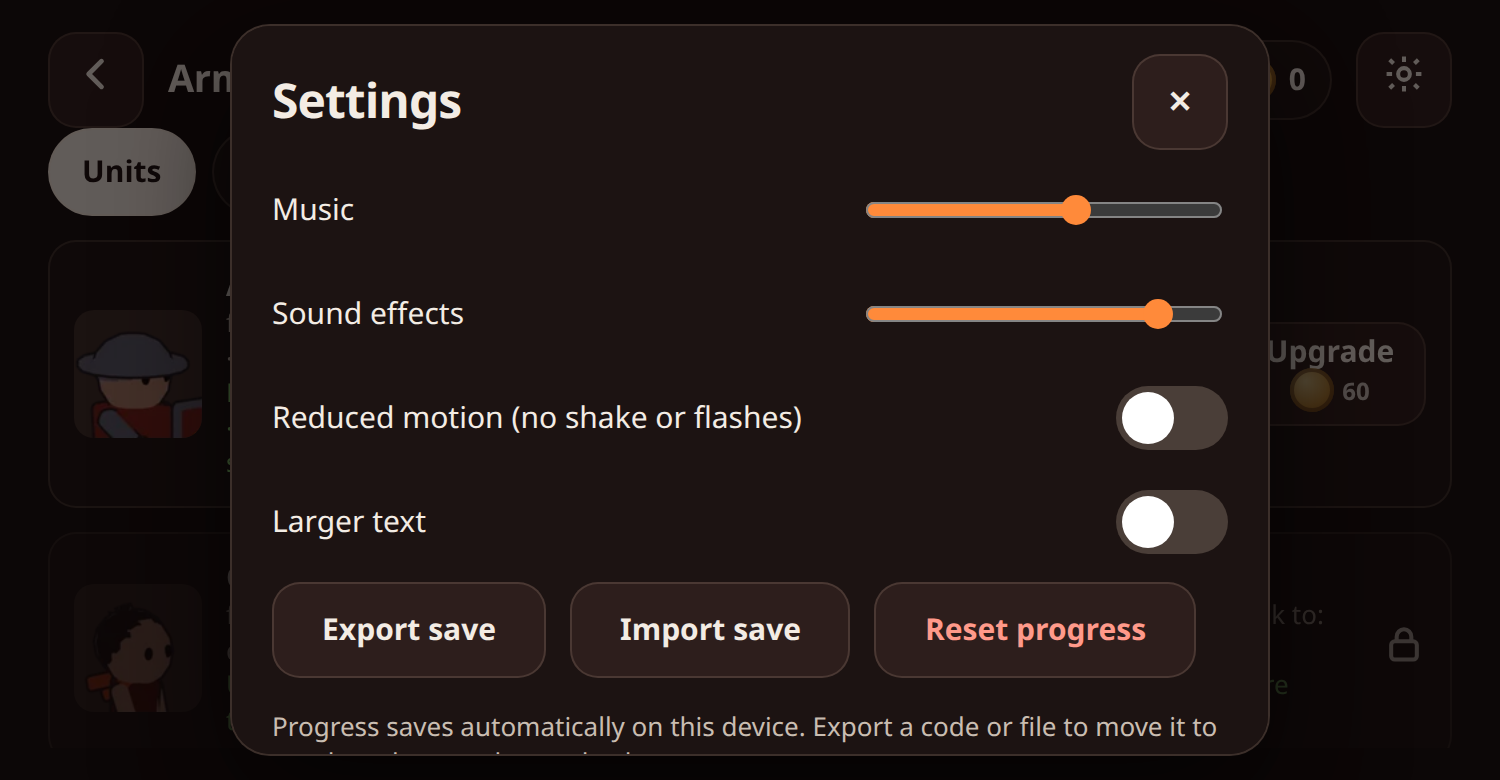
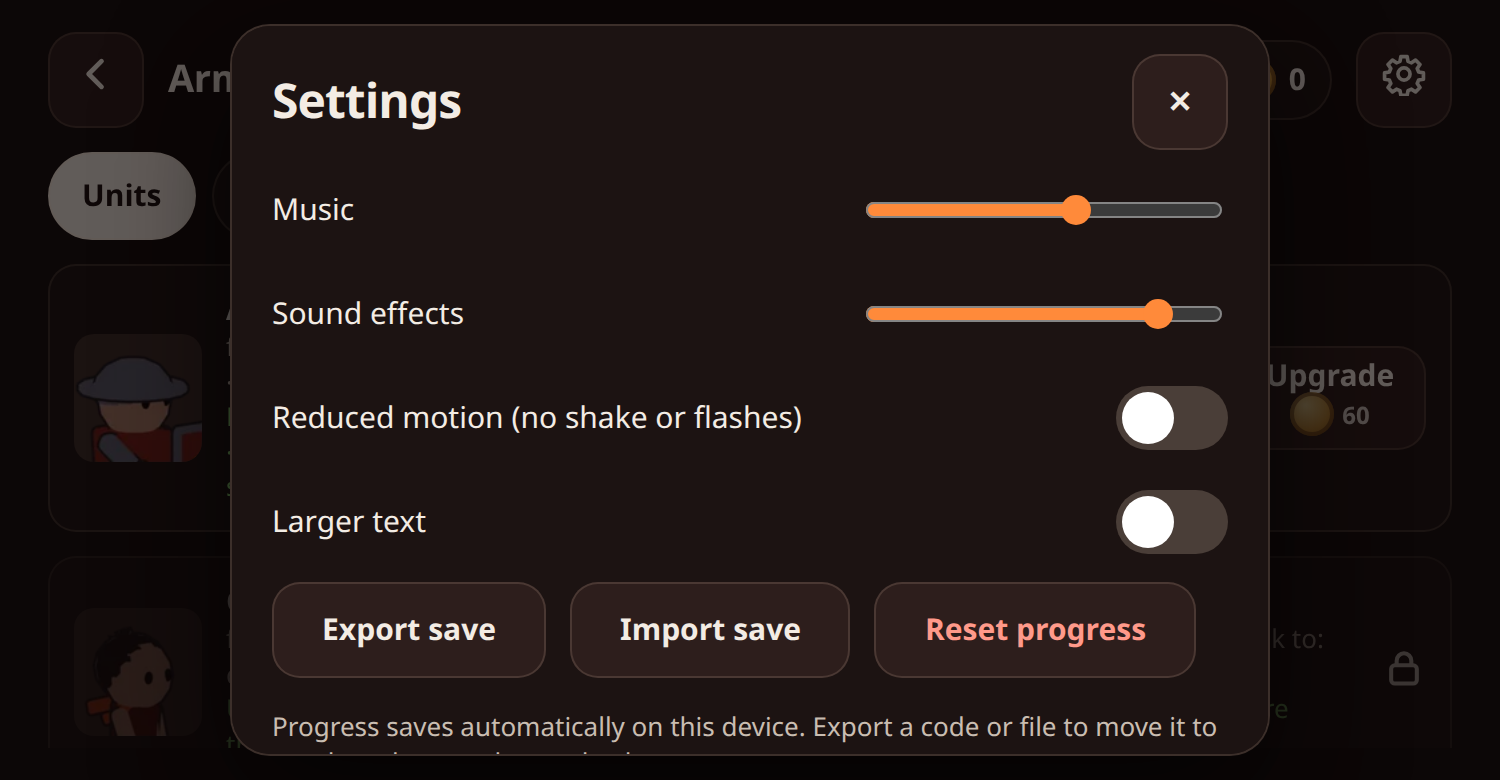
Reviewer 2 fixes: callout queue, shorter boss with winded window, bottom-row powers, atlas manifest, layout polish

diff --git a/src/main.js b/src/main.js
@@ -43,7 +43,7 @@ function h(tag, attrs = {}, ...kids) {
 }
 const I = {
   back: '<svg viewBox="0 0 24 24" fill="none" stroke="currentColor" stroke-width="2.6" stroke-linecap="round" stroke-linejoin="round"><path d="M15 5l-7 7 7 7"/></svg>',
-  gear: '<svg viewBox="0 0 24 24" fill="none" stroke="currentColor" stroke-width="2.2"><circle cx="12" cy="12" r="3.2"/><path d="M12 2.5v3M12 18.5v3M4.2 4.2l2.1 2.1M17.7 17.7l2.1 2.1M2.5 12h3M18.5 12h3M4.2 19.8l2.1-2.1M17.7 6.3l2.1-2.1"/></svg>',
+  gear: '<svg viewBox="0 0 24 24" fill="none" stroke="currentColor" stroke-width="2" stroke-linejoin="round"><path d="M10.3 2.5h3.4l.5 2.6 1.9.8 2.2-1.5 2.4 2.4-1.5 2.2.8 1.9 2.6.5v3.4l-2.6.5-.8 1.9 1.5 2.2-2.4 2.4-2.2-1.5-1.9.8-.5 2.6h-3.4l-.5-2.6-1.9-.8-2.2 1.5-2.4-2.4 1.5-2.2-.8-1.9-2.6-.5v-3.4l2.6-.5.8-1.9-1.5-2.2 2.4-2.4 2.2 1.5 1.9-.8z"/><circle cx="12" cy="12" r="3.3"/></svg>',
   pause: '<svg viewBox="0 0 24 24" fill="currentColor"><rect x="6" y="4.5" width="4" height="15" rx="1.2"/><rect x="14" y="4.5" width="4" height="15" rx="1.2"/></svg>',
   lock: '<svg viewBox="0 0 24 24" fill="none" stroke="currentColor" stroke-width="2.2"><rect x="5" y="10.5" width="14" height="10" rx="2"/><path d="M8 10.5V8a4 4 0 018 0v2.5"/></svg>',
   hammer: '<svg viewBox="0 0 24 24" fill="none" stroke="currentColor" stroke-width="2.2" stroke-linecap="round"><path d="M14 4l6 6-3 3-6-6zM11 7L3.5 14.5a2 2 0 000 2.8l3.2 3.2a2 2 0 002.8 0L17 13"/></svg>',
@@ -144,7 +144,7 @@ async function worldMap() {
     const open = !!r.playable;
     map.append(h("button", { class: "pin" + (open ? "" : " locked"), style: `left:${p.x * 100}%;top:${p.y * 100}%`, "aria-label": r.name + (open ? "" : " (locked)"),
       onclick: open ? tap(() => regionScreen(r)) : tap(() => toast(`${r.name}: ${r.blurb.split(".")[0]}. Coming in a later update.`, 3200), "ui_locked") },
-      h("span", { class: "dot" }), h("span", { class: "lbl" }, open ? `${r.name} · ${totalStars()}/18` : h("span", { style: "display:inline-flex;align-items:center;gap:4px" }, h("span", { class: "icon", style: "width:12px;height:12px;display:inline-block", html: I.lock.replace('<svg', '<svg width="12" height="12"') }), r.name)),
+      h("span", { class: "dot" }), h("span", { class: "lbl" }, open ? `${r.name} · ${totalStars()}/18` : h("span", { style: "display:inline-flex;align-items:center;gap:4px" }, h("span", { class: "icon", style: "width:12px;height:12px;display:inline-block;margin-right:3px", html: I.lock.replace('<svg', '<svg width="12" height="12"') }), r.name)),
       open && cleared("r1boss") ? h("span", { class: "cleared" }, "Cleared") : null));
   });
   const ann = D.seen.regionCleared === "new" ? h("div", { class: "announce", role: "status" }, h("b", {}, "Cinderfold Vale is free"),
@@ -200,7 +200,7 @@ function stageSheet(s, region) {
     h("div", { class: "starrow" }, ...game.stars.desc.map((d, i) => h("div", {}, h("span", { class: "star" + (st[i] ? " on" : "") }), i === 2 ? `Win in under ${Math.floor(s.par / 60)}:${String(s.par % 60).padStart(2, "0")}` : d))),
     ),
     h("button", { class: "btn primary big", onclick: tap(() => startBattle(s)), "aria-label": `Fight. ${first ? "First clear" : "Replay"} pays ${reward} marks` }, "Fight",
-      h("span", { style: "display:inline-flex;align-items:center;gap:4px;font-size:15px;opacity:.85;margin-left:8px" }, coin(), reward + "")));
+      h("span", { style: "display:inline-flex;align-items:center;gap:4px;font-size:14px;opacity:.85;margin-left:10px" }, "+", coin(), reward + "")));
   current.append(sheet);
 }
 
@@ -371,16 +371,23 @@ class BattleView {
       return el;
     });
     this.heroEl = B.hero ? h("button", { class: "abil herobtn", "aria-label": "Call the Marshal", onpointerdown: (e) => { e.preventDefault(); this.callHero(); } }, portrait("marshal", 60), h("span", { class: "cdtxt" })) : null;
-    const side = h("div", { class: "side" }, ...this.abilEls, this.heroEl);
+    const side = h("div", { class: "side row-side" }, this.heroEl, ...this.abilEls);
     const bottom = h("div", { class: "hud-bottom" }, h("div", { class: "left" }, this.energy, this.weapon), cards, side);
     this.bossBar = null;
     return h("div", { class: "screen hud" }, top, bottom);
   }
   bossWarn(kind) {
     const t = { sweep: "Censer raised! Fall back!", summon: "She calls the Choir!", spit: "Ember Spit! Clear the red ring!", winded: "She's winded! Strike now!" }[kind];
-    if (!t) return; const c = h("div", { class: "bosswarn" }, t); this.el.append(c); setTimeout(() => c.remove(), 1500);
+    if (t) this.callout(t, true);
   }
-  callout(text) { const c = h("div", { class: "callout" }, text); this.el.append(c); setTimeout(() => c.remove(), 1900); }
+  /** One callout at a time: urgent ones (boss warnings) replace the current one, others wait their turn. */
+  callout(text, urgent = false) {
+    this._cq = this._cq || [];
+    if (urgent) { this._cq.length = 0; if (this._co) { this._co.remove(); this._co = null; clearTimeout(this._coT); } }
+    else if (this._co) { if (this._cq.length < 2) this._cq.push(text); return; }
+    const c = h("div", { class: urgent ? "callout warn" : "callout" }, text); this.el.append(c); this._co = c;
+    this._coT = setTimeout(() => { c.remove(); this._co = null; const n = this._cq.shift(); if (n) this.callout(n); }, urgent ? 1500 : 1900);
+  }
   onBoss(e) {
     this.bossBar = h("div", { class: "bossbar" }, h("div", { class: "name" }, enemyById[e.id].name), h("div", { class: "bar" }, h("i")));
     this.el.append(this.bossBar); this.callout("The Matron rises"); R.camTarget = Math.max(0, e.x - R.W * 0.6);
@@ -436,7 +443,8 @@ class BattleView {
     const speed = Math.max(g.minSpeed, Math.min(g.maxSpeed, g.minSpeed + pull * k));
     R.aim = { vx: Math.cos(up) * speed, vy: -Math.sin(up) * speed, pull };
     // keep the landing point in view while aiming
-    if (R.aim.landX) R.camTarget = Math.max(0, Math.min(this.B.F.width - R.W, R.aim.landX - R.W * 0.55));
+    // keep the ballista in view; only slide right when the landing point would leave the screen
+    if (R.aim.landX && (R.aim.landX > R.camX + R.W * 0.9 || R.aim.landX < R.camX + 60)) R.camTarget = Math.max(0, Math.min(this.B.F.width - R.W, R.aim.landX - R.W * 0.75));
   }
   bindCanvas() {
     let pan = null;
@@ -536,7 +544,7 @@ class BattleView {
     const r = this.weapon.querySelector(".ring"); const rf = B.ballista.reload > 0 ? 1 - B.ballista.reload / B.ballista.maxReload : 1;
     r.style.background = rf < 1 ? `conic-gradient(rgba(255,200,120,.9) ${rf * 360}deg, transparent 0)` : "none";
     r.style.mask = r.style.webkitMask = "radial-gradient(circle, transparent 62%, #000 64%)";
-    const t = Math.floor(B.t); if (t !== this._t) { this._t = t; this.timer.textContent = `${Math.floor(t / 60)}:${String(t % 60).padStart(2, "0")}`; }
+    const t = Math.floor(B.t - B.heldT); if (t !== this._t) { this._t = t; this.timer.textContent = `${Math.floor(t / 60)}:${String(t % 60).padStart(2, "0")}`; }
     if (this.bossBar && B.boss) this.bossBar.querySelector(".bar > i").style.transform = `scaleX(${Math.max(0, B.boss.hp / B.boss.maxHp)})`;
   }
   frame(now) {
@@ -611,7 +619,7 @@ class BattleView {
         this.B.boss && this.B.boss.alive && this.B.boss.hp / this.B.boss.maxHp < 0.3 ? h("b", { style: "display:block;color:var(--accent-2);margin-bottom:4px" }, `The Matron was down to ${Math.round(this.B.boss.hp / this.B.boss.maxHp * 100)}%. So close.`) : null,
         tip),
       win ? h("div", { class: "starrow", style: "align-self:center" }, ...game.stars.desc.map((d, i) => h("div", {}, h("span", { class: "star" + (got[i] ? " on" : "") }), i === 2 ? `Win under ${fmt(s.par)} — you took ${fmt(this.B.endT - this.B.heldT)}` : d))) : null,
-      h("div", { class: "earn" }, coin(), h("span", {}, "+"), earnN, h("span", {}, "marks")),
+      h("div", { class: "earn" }, coin(), h("span", {}, "+", earnN, " marks")),
       unlocks.length ? h("div", { style: "text-align:center;font-weight:800;color:var(--accent-2)" }, "Unlocked: " + unlocks.join(", ")) : null,
       h("div", { class: "btnrow" },
         win && next ? h("button", { class: "btn primary big", onclick: tap(() => startBattle(next)) }, "Next stage") : null,

diff --git a/src/ui/style.css b/src/ui/style.css
@@ -100,7 +100,7 @@ button:focus-visible, [tabindex]:focus-visible { outline: 3px solid var(--accent
 .star.on { background: var(--gold); }
 
 /* armoury */
-.tabs { display: flex; gap: var(--s2); }
+.tabs { display: flex; gap: var(--s2); margin-top: var(--s3); }
 .tab { min-height: 44px; padding: 0 var(--s4); border-radius: 999px; background: var(--panel); border: 1px solid var(--line); font-weight: 700; }
 .tab.on { background: var(--ink); color: #1a1010; }
 .list { flex: 1; overflow-y: auto; margin-top: var(--s3); display: grid; grid-template-columns: repeat(auto-fill, minmax(330px, 1fr)); gap: var(--s3); align-content: start; padding-bottom: var(--s4); -webkit-overflow-scrolling: touch; touch-action: pan-y; }
@@ -159,22 +159,24 @@ button:focus-visible, [tabindex]:focus-visible { outline: 3px solid var(--accent
 .ucard .ph { position: absolute; top: 8px; left: 50%; transform: translateX(-50%); width: 46px; height: 52px; border-radius: 10px 10px 4px 4px; }
 .hud-bottom .left { display: flex; flex-direction: column; align-items: flex-start; gap: 6px; pointer-events: none; }
 .hud-bottom .left > .weapon { pointer-events: auto; }
-.energy { width: 128px; pointer-events: none !important; }
+.energy { width: 128px; pointer-events: none !important; padding: 4px 8px 6px; border-radius: 12px; background: rgba(15,9,8,.55); }
 .energy .val { font-weight: 900; font-size: var(--fs-l); text-shadow: 0 2px 3px #000; font-variant-numeric: tabular-nums; display: flex; align-items: center; gap: 6px; }
 .energy .val .fl { width: 14px; height: 18px; background: var(--accent); clip-path: polygon(50% 0, 90% 55%, 75% 100%, 25% 100%, 10% 55%); }
 .energy .bar > i { background: linear-gradient(90deg, #ff7a2a, #ffcf6a); transition: none; }
 .energy.full .val { color: var(--accent-2); }
 .side { display: flex; flex-direction: column; gap: 6px; align-items: center; }
+.side.row-side { flex-direction: row; align-items: flex-end; }
 .abil { width: 62px; height: 62px; border-radius: 50%; background: radial-gradient(circle at 40% 35%, #5a2a1a, #1e0e09); border: 2px solid #c06a3a; position: relative; display: grid; place-items: center; box-shadow: 0 4px 12px rgba(0,0,0,.5); overflow: hidden; }
 .abil img, .abil svg { width: 38px; height: 38px; }
 .abil .cdtxt { position: absolute; inset: 0; display: grid; place-items: center; background: rgba(0,0,0,.6); font-weight: 900; }
 .abil.ready { border-color: var(--accent-2); box-shadow: 0 0 0 4px rgba(255,179,71,.25), 0 4px 12px rgba(0,0,0,.5); }
 .abil.armed { border-color: #fff; transform: scale(1.08); }
-.herobtn { width: 70px; height: 70px; border-radius: 16px; }
+.herobtn { width: 66px; height: 66px; border-radius: 50%; }
+.herobtn img, .herobtn .ph { width: 60px; height: 60px; border-radius: 50%; }
 .herobtn.ready { animation: pulse2 1.4s infinite; }
 .herobtn.used { opacity: .35; }
 .banner { position: absolute; top: calc(var(--sat) + 64px); left: 50%; transform: translateX(-50%); padding: 10px 18px; border-radius: 999px; background: rgba(20,12,10,.9); border: 1px solid var(--accent-2); font-weight: 700; display: flex; gap: var(--s3); align-items: center; animation: screenIn .25s var(--ease); max-width: calc(100vw - 48px); }
-.tut { position: absolute; left: 50%; transform: translateX(-50%); top: 34%; max-width: min(460px, 80vw); text-align: center; padding: 12px 18px; border-radius: var(--r-m); background: rgba(20,12,10,.92); border: 1px solid var(--accent-2); font-weight: 700; font-size: var(--fs-l); pointer-events: none; animation: screenIn .3s var(--ease); box-shadow: 0 12px 30px rgba(0,0,0,.5); }
+.tut { position: absolute; left: 50%; transform: translateX(-50%); top: 30%; max-width: min(440px, 60vw); text-align: center; padding: 12px 18px; border-radius: var(--r-m); background: rgba(20,12,10,.92); border: 1px solid var(--accent-2); font-weight: 700; font-size: var(--fs-l); pointer-events: none; animation: screenIn .3s var(--ease); box-shadow: 0 12px 30px rgba(0,0,0,.5); }
 .hl { animation: hl 1s ease-in-out infinite !important; z-index: 5; }
 @keyframes hl { 50% { box-shadow: 0 0 0 8px rgba(255,220,120,.55), 0 0 24px 6px rgba(255,180,80,.6); } }
 .callout { position: absolute; font-weight: 900; font-size: 34px; letter-spacing: .04em; text-transform: uppercase; left: 50%; top: 40%; transform: translate(-50%, -50%);
@@ -200,7 +202,7 @@ button:focus-visible, [tabindex]:focus-visible { outline: 3px solid var(--accent
 .btnrow { display: flex; gap: var(--s3); justify-content: center; flex-wrap: wrap; }
 .setting { display: flex; align-items: center; justify-content: space-between; gap: var(--s4); min-height: 44px; }
 .panel h2 { font-size: 24px; }
-.settings-panel { gap: var(--s2); padding: 14px 20px; }
+.settings-panel { gap: var(--s2); padding: 14px 20px calc(16px + var(--sab)); }
 input[type=range] { width: 180px; accent-color: var(--accent); height: 32px; }
 .toggle { width: 56px; height: 32px; border-radius: 999px; background: #4a3e38; position: relative; transition: background .2s; flex: none; }
 .toggle::after { content: ""; position: absolute; top: 3px; left: 3px; width: 26px; height: 26px; border-radius: 50%; background: #fff; transition: transform .2s var(--ease); }
@@ -222,6 +224,9 @@ textarea { width: 100%; min-height: 90px; border-radius: var(--r-s); background:
 @media (prefers-reduced-motion: reduce) { *, *::before, *::after { animation-duration: .01ms !important; animation-iteration-count: 1 !important; transition-duration: .01ms !important; } }
 
 .pin .cleared { padding: 2px 8px; border-radius: 999px; background: var(--gold); color: #2a1206; font-size: 11px; font-weight: 900; text-transform: uppercase; letter-spacing: .04em; }
-.announce { position: absolute; left: 50%; bottom: calc(var(--sab) + 20px); transform: translateX(-50%); width: min(520px, calc(100vw - 48px)); padding: 14px 18px; border-radius: var(--r-l); background: #1c1312; border: 1px solid var(--gold); text-align: center; animation: sheetIn .4s var(--ease) both; box-shadow: 0 16px 40px rgba(0,0,0,.6); }
+.announce { position: absolute; z-index: 5; left: 50%; bottom: calc(var(--sab) + 20px); transform: translateX(-50%); width: min(520px, calc(100vw - 48px)); padding: 14px 18px; border-radius: var(--r-l); background: #1c1312; border: 1px solid var(--gold); text-align: center; animation: sheetIn .4s var(--ease) both; box-shadow: 0 16px 40px rgba(0,0,0,.6); }
 .announce b { display: block; font-size: var(--fs-l); color: var(--gold); margin-bottom: 2px; }
 .bosswarn { position: absolute; left: 50%; top: 30%; transform: translateX(-50%); font-weight: 900; font-size: 22px; color: #ff8a6a; text-shadow: 0 2px 0 #3a0a04, 0 6px 16px rgba(0,0,0,.7); pointer-events: none; animation: callout 1.4s var(--ease) both; white-space: nowrap; letter-spacing: .03em; }
+
+.callout.warn { font-size: 22px; color: #ffd2b8; background: rgba(20,8,6,.82); padding: 8px 16px; border-radius: 12px; border: 1px solid #ff6a3a; top: 30%; text-shadow: none; }
+@media (max-width: 760px) { .abil { width: 52px; height: 52px; } .abil img, .abil svg { width: 32px; height: 32px; } .herobtn { width: 56px; height: 56px; } .herobtn img, .herobtn .ph { width: 50px; height: 50px; } .weapon { width: 74px; height: 74px; } .energy { width: 110px; } }

diff --git a/src/sim/battle.js b/src/sim/battle.js
@@ -130,7 +130,7 @@ function damage(B, e, amt, src, opts) {
   let d = amt;
   if (e.s.traits && e.s.traits.meleeGuard && opts && opts.melee) d *= 1 - e.s.traits.meleeGuard;
   if (e.s.traits && e.s.traits.armor) d *= 1 - e.s.traits.armor;
-  if (e.vuln > 0) d *= 1.5;
+  if (e.vuln > 0) d *= 1.6;
   e.hp -= d; if (!opts || opts.kind !== "burn") e.flash = 0.12;   // damage-over-time never flashes
   if (src && src.side === 1) B.stats.dmgDealt += d;
   ev(B, "dmg", { e, amt: d, crit: opts && opts.crit, kind: opts && opts.kind });
@@ -263,7 +263,7 @@ function bossThink(B, e, dt) {
         explode(B, cx, b.sweep.radius * 0.6, b.sweep.dmg, e, "players", { kb: b.sweep.knockback, kind: "blunt" });
         if (Math.abs(B.keep.front - e.x) < b.sweep.radius) hitCastle(B, -1, b.sweep.dmg);
         ev(B, "bossSlam", { x: cx, r: b.sweep.radius });
-        e.vuln = 2.5; ev(B, "bossWinded", { e });          // the swing leaves her open: a window to punish
+        e.vuln = 3; ev(B, "bossWinded", { e });          // the swing leaves her open: a window to punish
         if (e.phase2) B.patches.push({ x: cx, r: 60, dps: 14, t: 4, side: -1 });
       } else if (w.kind === "summon") {
         for (let k = 0; k < b.summon.n; k++) spawn(B, powered(B, enemyStats(B.enemyDefs[b.summon.id], false, B.content.enemies.elite), B.emul), -1, e.x - 30 - k * 12);

diff --git a/src/render/assets.js b/src/render/assets.js
@@ -35,8 +35,11 @@ export async function loadAtlas(group, { white = true } = {}) {
 }
 
 /** A group may be split across numbered atlases (units, units2, units3...). Load all that exist. */
+let pageList = null;
 export async function loadGroup(group, opts) {
-  const names = [group, ...[2, 3, 4, 5, 6, 7, 8].map((n) => group + n)];
+  if (!pageList) pageList = fetch(BASE + "atlases.json").then((r) => r.json()).catch(() => null);
+  const list = await pageList;
+  const names = list ? list.filter((n) => n === group || new RegExp("^" + group + "\\d+$").test(n)) : [group];
   const res = await Promise.all(names.map((n) => loadAtlas(n, opts)));
   return res.filter(Boolean).length;
 }

diff --git a/vite.config.js b/vite.config.js
@@ -4,7 +4,7 @@ let ver = "dev";
 try { ver = execSync("git rev-parse --short HEAD").toString().trim(); } catch {}
 export default defineConfig({
   base: "./",
-  define: { "import.meta.env.VITE_VERSION": JSON.stringify("0.1-" + ver) },
+  define: { "import.meta.env.VITE_VERSION": JSON.stringify("0.1-" + ver + " · " + new Date().toISOString().slice(5, 16).replace("T", " ") + " UTC") },
   build: { target: "es2019", assetsInlineLimit: 0, chunkSizeWarningLimit: 600, reportCompressedSize: false },
   server: { host: "127.0.0.1", port: 5193, strictPort: true },
 });

diff --git a/docs/balance.md b/docs/balance.md
@@ -1,0 +1,50 @@
+# Balance
+
+**Method.** `tools/balance.mjs` runs the battle simulation headless at about 3,000–4,500× real time. A scripted test player (`src/sim/bot.js`) uses only a human's inputs: sending cards, aiming the ballista with aim error, using powers and calling the hero. It plays every stage **200 times per cell** across 3 skill levels and 4 upgrade profiles, which is 14,400 battles in about 5 minutes.
+
+**Tuning.** `tools/tune.mjs` bisects a per-stage enemy **power** factor until an average player with no upgrades hits a target win rate (stage 1 ~97% down to the boss ~30%). Power scales enemy health ×p and damage ×p^0.75. The boss has its own factor. Enemy base stats were rescaled once (×1.67 health) so that stage 5 sits at power 1.0.
+
+**Changes made from what the runs showed**
+1. First runs: every stage was won 100% even by a sloppy player with no upgrades, and the Keep was never hit. The enemies were far too weak, so I rescaled their base stats and added per-stage power.
+2. Many "losses" were stalemates running to the 15-minute cap, a dull stretch for a real player. Added **escalation**: after par time the Maw spawns faster with more elites ("The Maw grows angry"), so every battle reaches a decision.
+3. "Modest" upgrades gave 100% everywhere. Softened per-level gains (HP +12% → +8%, damage +9% → +7%, ember flow +1.0 → +0.6/level, store +20 → +15).
+4. The reviewer called the boss a grind. Cut her base health 30% and added a **winded** window after each sweep (+50% damage taken for 2.5 s), then re-tuned her power.
+5. Starting embers 40 → 55 so the first card is affordable when the tutorial asks. First waves now arrive at 2 s.
+6. Par times set to about 110% of the measured average clear time with modest upgrades. Tutorial pauses don't count.
+
+**Final results** (win rate; average win time and Keep health for the *average* player; 3-star rate for the average player)
+
+Runs per cell: 200. Skill = bot reaction speed and aim error (sloppy 0.35, average 0.6, sharp 0.9). Profiles: none = all level 1; light = units 2, keep/ballista 2; modest = units 3, keep/ballista 3, ember 2/2, hero 2, powers 2; strong = units 6, keep/ballista 6, ember 4/4, hero 5, powers 5.
+| Stage | Upgrades | Sloppy win | Average win | Sharp win | Avg win time (average) | Keep HP left (average) | 3-star rate (average) |
+|---|---|---|---|---|---|---|---|
+| r1s1 | none | 93% | 100% | 100% | 111 s (par 110) | 100% | 49% |
+| r1s1 | light | 100% | 100% | 100% | 103 s (par 110) | 100% | 99% |
+| r1s1 | modest | 100% | 100% | 100% | 97 s (par 110) | 100% | 100% |
+| r1s1 | strong | 100% | 100% | 100% | 79 s (par 110) | 100% | 100% |
+| r1s2 | none | 70% | 85% | 95% | 144 s (par 140) | 99% | 33% |
+| r1s2 | light | 99% | 99% | 100% | 135 s (par 140) | 99% | 72% |
+| r1s2 | modest | 100% | 100% | 100% | 122 s (par 140) | 99% | 96% |
+| r1s2 | strong | 100% | 100% | 100% | 86 s (par 140) | 100% | 100% |
+| r1s3 | none | 65% | 93% | 100% | 175 s (par 155) | 99% | 16% |
+| r1s3 | light | 99% | 100% | 100% | 152 s (par 155) | 99% | 78% |
+| r1s3 | modest | 100% | 100% | 100% | 139 s (par 155) | 99% | 100% |
+| r1s3 | strong | 100% | 100% | 100% | 112 s (par 155) | 100% | 100% |
+| r1s4 | none | 47% | 80% | 95% | 201 s (par 190) | 100% | 18% |
+| r1s4 | light | 96% | 100% | 100% | 175 s (par 190) | 100% | 86% |
+| r1s4 | modest | 100% | 100% | 100% | 168 s (par 190) | 100% | 92% |
+| r1s4 | strong | 100% | 100% | 100% | 109 s (par 190) | 100% | 100% |
+| r1s5 | none | 34% | 57% | 64% | 216 s (par 205) | 99% | 16% |
+| r1s5 | light | 91% | 100% | 100% | 194 s (par 205) | 100% | 70% |
+| r1s5 | modest | 100% | 100% | 100% | 183 s (par 205) | 99% | 97% |
+| r1s5 | strong | 100% | 100% | 100% | 136 s (par 205) | 100% | 100% |
+| r1boss | none | 16% | 39% | 63% | 252 s (par 240) | 39% | 3% |
+| r1boss | light | 85% | 96% | 99% | 234 s (par 240) | 74% | 55% |
+| r1boss | modest | 100% | 100% | 100% | 203 s (par 240) | 92% | 97% |
+| r1boss | strong | 100% | 100% | 100% | 121 s (par 240) | 100% | 100% |
+
+**Reading it**
+- **No upgrades, average player:** stage 1 100%, 2 85%, 3 93%, 4 80%, 5 57%, boss 39%. Early stages are winnable cold and later ones push you toward the Armoury. Nothing is impossible: a sharp player beats the boss cold 63% of the time.
+- **Light upgrades** (units level 2, Keep/ballista 2, about 600 marks, roughly what the first clears pay): 96–100% on every stage. This is the intended path.
+- **Nothing trivial at first contact:** a sloppy player with no upgrades wins the boss 16% and stage 5 34%.
+- **Stars give replay value:** the time star needs either upgrades or sharp play (3-star rates of 3–49% with no upgrades, 55–99% with light).
+- **Caveat:** the bot plays very consistently, so its win rate jumps once its army passes a threshold, which makes the curve between "none" and "light" look steeper than a person will feel. Its decisions are reasonable but it doesn't deliberately exploit boss windows or save up embers for heavies the way a good player does.

diff --git a/docs/review/review-2.md b/docs/review/review-2.md
@@ -1,0 +1,53 @@
+# Siegeline: playtest review 2
+
+Sources: pt = `docs/shots/playthrough`, plus `se`, `notch`, `rec_*`, and my own `tools/shots.mjs` run against the live URL. `rec_*` and `docs/shots/0*` come from an older build (they say "LANTERN KEEP" where pt says "KEEP").
+
+## The 22 items from review 1
+
+| # | Item | Status | Note |
+|---|---|---|---|
+| 1 | HUD over result modal | Fixed | Modal now sits above the HUD |
+| 2 | Victory buttons clipped | Fixed | Fits with the unlock line |
+| 3 | Stage sheet hides content | Fixed | Opaque, fits on SE (see F) |
+| 4 | Settings overflow / toast | Partly | Fits on SE; the error toast still covers Sound effects (pt/25) |
+| 5 | Old scenes behind screens | Fixed | Solid Armoury and map backgrounds |
+| 6 | Region clear unlocks nothing | Partly | Continue + CLEARED chip; still no "more regions coming" on the map (pt/23) |
+| 7 | White blobs, stacked numbers | Partly | White-out gone; numbers still stack ("43/43", pt/19) |
+| 8 | Cards hard to tell apart | Partly | Names and an affordable glow added; Torchbow and Bellringer portraits still match |
+| 9 | Boss grind | Partly | Telegraphs and winded window added; still a 4:25 win, keep 680/2000 (pt/22) |
+| 10 | Dead opening, stage 3 | Partly | First enemy at about 0:11 (rec); not rechecked on the current build |
+| 11 | Tutorial card unaffordable | Fixed | 57 embers, card lit |
+| 12 | Time star never earned | Fixed | Earned on stages 1, 3 and 4 |
+| 13 | Same loss tip | Fixed | Bloater tip + "290 health left. So close." |
+| 14 | Coin pill over gate label | Fixed | |
+| 15 | SE HUD | Partly | Shows KEEP; ember meter still floats over the lane (se/08) |
+| 16 | Right buttons crowd gate | Not fixed | Three stacked buttons now cover the gate (pt/19, 21) |
+| 17 | Locked items lack hint | Fixed | "3)" orphans onto its own line (pt/14) |
+| 18 | Title tagline / version | Partly | Darker scrim; tagline still crosses the tower, version text on lava |
+| 19 | Map pixelated, no locks | Partly | Lock icons touch the names; terrain stair-steps; "The Cinder Maw" clipped on SE |
+| 20 | Copy | Partly | Time line good; "+ 165  marks" still has a double gap |
+| 21 | Node stars invisible | Fixed | |
+| 22 | Rec loads wrong stage | Not a bug | Script jump by design |
+
+10 fixed, 10 partly fixed, 1 not fixed, 1 not a bug.
+
+## New findings
+
+### Major
+- **A. The public URL serves an old build.** The live site shows "LANTERN KEEP" and none of the newest polish, while the dev build reports the same `fa47e1f` stamp on newer code. Friends would get the old game. Fix: deploy HEAD, and add a dirty flag or build time to the version string.
+- **B. Boss callouts overlap into gibberish.** Where: rec_09 (1:46–2:05), rec_12 (3:29–3:40). The cause is that `callout()` (src/main.js:383) appends each callout with no queue. The text is also red on a red sky, over the boss. Fix: use one slot, where a warning replaces the current callout and the rest wait. Add a dark plate and keep it clear of the sprite.
+- **C. The boss is still too long.** Over 4 min, the line is pushed back to the keep. Fix: cut boss HP by a further 15–20%, or lengthen the winded window.
+
+### Minor
+- **D.** The tutorial tip box touches the right screen edge (pt/04, 05, 08). Fix: centre it with max-width 60vw.
+- **E.** The loader probes `ui|fx|castles|enemies 2–8.json` until it hits a 404. That is about 35 failed requests a session, including 503s from Pages. Fix: write a page-count manifest at build time.
+- **F.** "Fight 🪙120" reads like a price. Fix: add a line "First clear: +120 marks".
+- **G.** The HUD clock says 1:55 while the results say "you took 1:48" (pt/07). Fix: freeze the clock during tutorial holds.
+- **H.** The Settings sheet has no bottom padding, so Import touches the edge (pt/25). The Armoury tabs touch the header (pt/14). Fix: 16 px plus the safe-area inset on the sheet, and a 12 px gap on the tabs.
+- **I.** No aim arc shows while aiming (se/07, notch/07), which design §8 promises.
+
+### Polish
+The hero button is square while the other powers are round. "Lamplighter" fills its card edge to edge. The coin stack covers the first digit while it animates ("I65"). The settings icon looks like a sun. Regenerate `rec_*` and `docs/shots/0*`.
+
+## Verdict
+Close. Review 1's blockers are gone and the loop reads clearly. Before sharing: redeploy (A), queue the callouts (B), and shorten the boss (C). Then fix item 16 and the floating ember meter.

diff --git a/docs/next-regions.md b/docs/next-regions.md
@@ -1,0 +1,34 @@
+# Plan: the next three regions
+
+Each region reuses the engine, saves, UI and tools unchanged. It needs data files (units, enemies, stages), Blender scripts for the new cast and scenery, one music variation, and a balance pass. A region is roughly one night of the same pipeline used for region 1.
+
+## Region 2: The Bell Marshes (9 stages: 6 + boss + 1 side + 1 challenge)
+- **Setting:** drowned chapels in a fog marsh whose bells still ring at night. Cold teal fog over the ember palette.
+- **New units:** **Pikewall** (anti-large, double damage to brutes), **Sapper** (runs to the gate and blows a big hole in it, only hits buildings), **Kestrel Rider** (first flyer, ignores the ground line).
+- **New enemies:** Wailer (flying shade, forces flyers and archers into play), Bog Husk (slows on hit), plus marsh variants of the region 1 Hollows.
+- **New mechanic:** fog banks drift across the field and hide units inside them. Flares and the Bellringer's aura reveal them.
+- **Boss: the Mire Choir.** Three linked bell-wraiths. Hit one and the others heal it, so you must split damage. Warnings: a rising chime before a sonic cone, and bells that glow before a heal pulse.
+- **Side stage:** Night Watch (no hero, permanent fog). **Challenge:** Endless Tide, survive wave after wave with a star track for score.
+
+## Region 3: The Gilded Causeway (10 stages)
+- **Setting:** a white-and-gold toll road of the mercenary Tithe, with banners, carts and coin chests.
+- **New units:** **Flame Monk** (cone fire against swarms), **Chain Warden** (pulls one enemy forward out of formation), **Crossbow Cart** (long-range siege that pierces lines).
+- **New enemies:** Tithe Spearman (armoured), Tithe Crossbow (outranges your archers), Gilded Paladin (heals other Tithe, armoured). These are the first enemies that punish spamming.
+- **New mechanic:** armour. A shield icon marks reduced damage, so Pikewalls and Sappers matter.
+- **Boss: Abbot-Banker Corvane.** He buys mercenaries mid-fight with coin (you can see the coin stack he spends from) and throws a gold shield on allies. Breaking his coin cart stops the hiring.
+
+## Region 4: Hollowdeep Mines (10 stages)
+- **Setting:** lantern-lit mine shafts, rails and minecarts, molten seams. Darker stages lit mostly by your own lanterns.
+- **New units:** **Grave Priest** (revives one fallen unit), **Banner Knight** (aura +20% damage), **Ironclad** (big armoured tank).
+- **New enemies:** Maw Hound (fast pack beast), Slag Golem (molten tank that leaves fire), Cart Bomber (rides a minecart down the rail, so you must shoot it with the ballista before it hits).
+- **New mechanic:** the rail. Minecarts roll along the field on a schedule and hit both sides, so timing your sends matters.
+- **Boss: the Slag Mother.** She rises from a lava pool, splitting the lane with molten rivers that block walking for a few seconds (shown on the ground first).
+
+## Steady unlock pace (whole game)
+3 new units per region in regions 2–5, 2 in region 6 (20 in total). Each first clear unlocks something: a unit, a power upgrade tier, or a new Armoury row (castle walls tier 2, a second ballista bolt type in region 3).
+
+## What I need from you
+- Play region 1 on your phone and tell me what feels too hard, too easy or unclear. The balance is tuned with a test player, not a human.
+- Whether the sound is good. Nobody has heard it yet; it was checked only by analysis.
+- A yes or no on the world (The Ashen Marches), or "switch", before more art is made.
+- Optional: names you'd like for the hero or regions.

diff --git a/docs/design.md b/docs/design.md
@@ -152,7 +152,7 @@ Levels 1–10: +8% HP and +7.000000000000001% damage per level; new look and per
 | Pyre Bloater | hollow | r1 | 350 | 12 | 1.4 | 26 | 22 | Swollen with embers. Bursts when killed, burning everyone nearby. |
 | Bonecage Brute | hollow | r1 | 870 | 68 | 2.4 | 34 | 24 | A giant split open to the ribs. Every swing sends soldiers flying. |
 | Husk Warden (mini-boss) | hollow | r1 | 2340 | 81 | 1.8 | 40 | 26 | Once a captain of the Vale. Enrages when wounded. |
-| The Cinder Matron (boss) | hollow | r1 | 7000 | 103 | 2 | 60 | 18 | Mother of the Hollow Host. Raises her censer before she swings — get clear. |
+| The Cinder Matron (boss) | hollow | r1 | 5600 | 123 | 2 | 60 | 18 | Mother of the Hollow Host. Raises her censer before she swings — get clear. |
 | Wailer | hollow | r2 | 150 | 18 | 1.4 | 120 | 40 | Flying shade. |
 | Tithe Spearman | tithe | r3 | 400 | 29 | 1.2 | 44 | 36 | Mercenary knight-spear. |
 | Tithe Crossbow | tithe | r3 | 235 | 41 | 2.2 | 280 | 30 | Long-range mercenary. |
@@ -172,5 +172,5 @@ Elite versions: HP x2.2, damage x1.4, speed x1.1, ember glow and 12% larger.
 | r1s3 | Pyre Fields | 2000 | x1.99 | 155 s | 180 | bellringer, rally | 2s 4x husk; 22s 1x bloater; 30s 2x spitter; 45s 5x gnawer; 60s 2x bloater; 75s 6x husk; 90s 1x brute |
 | r1s4 | The Broken Watch | 2500 | x1.18 | 190 s | 210 | lamplighter | 2s 4x husk; 18s 2x spitter; 32s 1x brute; 34s 3x husk; 55s 6x gnawer; 70s 2x bloater; 85s 1x husk_warden; 88s 4x husk |
 | r1s5 | Ashfall Ridge | 3000 | x0.97 | 205 s | 240 | - | 2s 5x husk; 15s 4x gnawer; 28s 1x brute; 30s 3x spitter; 50s 3x bloater; 65s 4x husk (elite); 80s 2x brute; 100s 1x husk_warden; 102s 6x gnawer |
-| r1boss | The Cinder Matron | sealed (defeat the boss) | x0.97, boss x1.43 | 240 s | 400 | - | 2s 4x husk; 12s 2x spitter |
+| r1boss | The Cinder Matron | sealed (defeat the boss) | x0.97, boss x1.64 | 215 s | 400 | - | 2s 4x husk; 12s 2x spitter |
 <!-- /GENERATED -->

diff --git a/docs/decisions.md b/docs/decisions.md
@@ -29,3 +29,8 @@ Format: decision — reason — alternative considered.
 - **Service worker: page network-first, versioned files cache-first, never answer a missing file with the page** — the first version could blank the screen after an update.
 - **Burning and fire-patch damage never trigger the white hit flash** — the boss was permanently white while standing in fire.
 - **Recording assembled from captured frames and encoded on the 5070** — headless Chrome's own screencast produced empty files here, and this ffmpeg has no software H.264 encoder.
+- **Boss reworked after two reviews: health 7000 → 5600 base, hits 20–30% harder, "winded" window 3 s at +60% damage taken, par 3:35** — fights went from ~4.5 to ~3–3.5 minutes at the same win rates.
+- **One callout at a time; boss warnings replace other callouts and sit on a dark plate** — overlapping callouts were unreadable.
+- **Hero and powers moved into the bottom row** — the stacked column covered the Maw Gate.
+- **Atlas page list (`assets/atlases.json`) written at build time** — the loader used to probe for missing pages (~35 failed requests per session).
+- **Version string includes the build time** — so the live build can always be told apart from a local one.

diff --git a/docs/balance-latest.md b/docs/balance-latest.md
@@ -2,7 +2,7 @@ Runs per cell: 100. Skill = bot reaction speed and aim error (sloppy 0.35, avera
 
 | Stage | Upgrades | Sloppy win | Average win | Sharp win | Avg win time (average) | Keep HP left (average) | 3-star rate (average) |
 |---|---|---|---|---|---|---|---|
-| r1boss | none | 13% | 36% | 60% | 248 s (par 240) | 41% | 2% |
-| r1boss | light | 80% | 98% | 99% | 233 s (par 240) | 75% | 60% |
-| r1boss | modest | 100% | 100% | 100% | 202 s (par 240) | 93% | 98% |
-| r1boss | strong | 100% | 100% | 100% | 120 s (par 240) | 100% | 100% |
+| r1boss | none | 8% | 26% | 52% | 226 s (par 240) | 40% | 6% |
+| r1boss | light | 77% | 90% | 97% | 211 s (par 240) | 64% | 53% |
+| r1boss | modest | 100% | 100% | 100% | 185 s (par 240) | 90% | 99% |
+| r1boss | strong | 100% | 100% | 100% | 115 s (par 240) | 99% | 100% |
